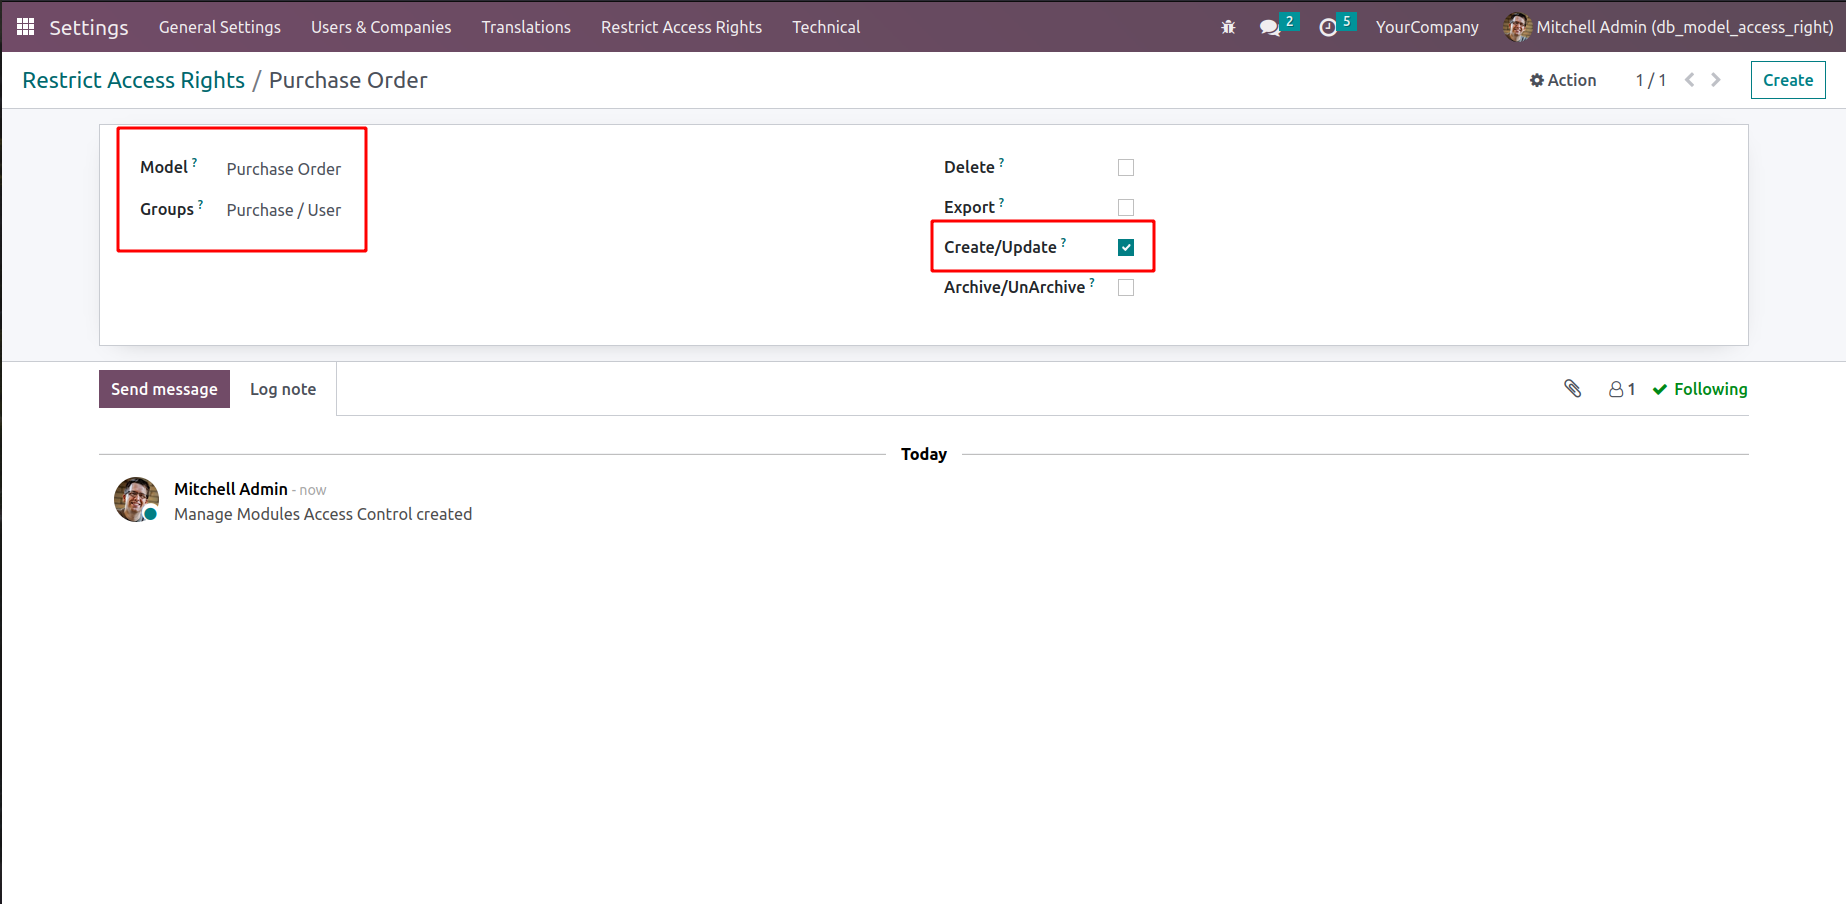
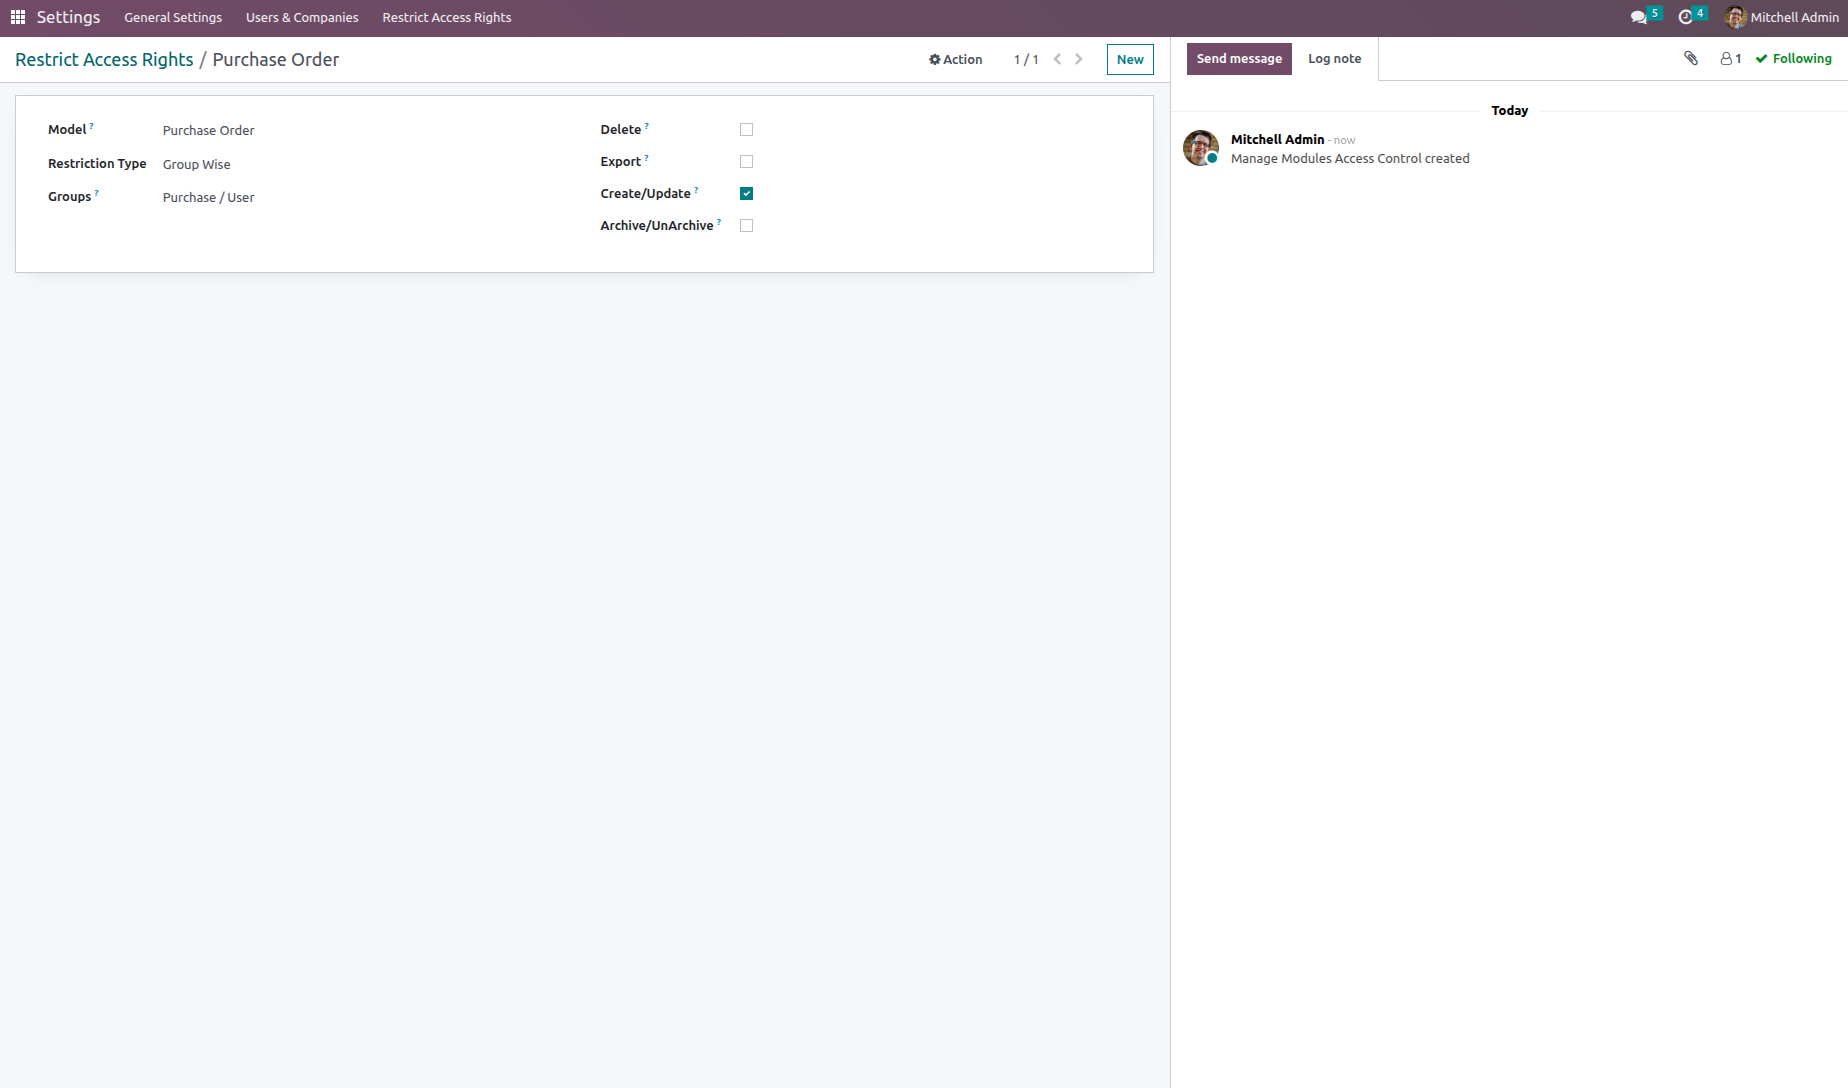
Aug 18: [FIX] Bug Fixed 'model_access_rights'

diff --git a/model_access_rights/static/src/js/list_controller.js b/model_access_rights/static/src/js/list_controller.js
@@ -4,6 +4,7 @@
  */
 import { ListController} from '@web/views/list/list_controller';
 import { patch} from "@web/core/utils/patch";
+import { useService } from "@web/core/utils/hooks";
 var rpc = require('web.rpc');
 const {onWillStart} = owl;
 patch(ListController.prototype, 'model_access_rights/static/src/js/list_controller.js.ListController', {
@@ -12,6 +13,7 @@ patch(ListController.prototype, 'model_access_rights/static/src/js/list_controll
  */
     setup() {
         this._super();
+        this.user = useService("user");
         onWillStart(async () => {
             var self = this
             var result;
@@ -24,22 +26,34 @@ patch(ListController.prototype, 'model_access_rights/static/src/js/list_controll
             for (var i = 0; i < result.length; i++) {
                 var group = result[i].module + "." + result[i].group_name
                 if (self.props.resModel == result[i].model) {
-                    if (await self.userService.hasGroup(group)) {
-                        if (!this.userService.isAdmin) {
-                            if (result[i].is_create_or_update) {
-                                self.activeActions.create = false;
+                    if (result[i].restriction_type == "group") {
+                        if (await self.user.hasGroup(group)) {
+                            if (!this.user.isAdmin) {
+                                if (result[i].is_create_or_update) {
+                                    self.activeActions.create = false;
+                                }
+                                if (result[i].is_export) {
+                                    self.isExportEnable = false
+                                    self.isExportEnable = false
+                                }
+                                if (result[i].is_delete) {
+                                    self.activeActions.delete = false;
+                                }
                             }
-                            if (result[i].is_export) {
-                                self.isExportEnable = false
-                                self.isExportEnable = false
-                            }
-                            if (result[i].is_delete) {
-                                self.activeActions.delete = false;
-                            }
-                            if (result[i].is_archive) {
-                                self.archiveEnabled = false;
-                            } else {
-                                self.archiveEnabled = true;
+                        }
+                    } else {
+                        if (await self.user.userId == result[i].user[0]) {
+                            if (!this.user.isAdmin) {
+                                if (result[i].is_create_or_update) {
+                                    self.activeActions.create = false;
+                                }
+                                if (result[i].is_export) {
+                                    self.isExportEnable = false
+                                    self.isExportEnable = false
+                                }
+                                if (result[i].is_delete) {
+                                    self.activeActions.delete = false;
+                                }
                             }
                         }
                     }

diff --git a/model_access_rights/static/src/js/kanban_controller.js b/model_access_rights/static/src/js/kanban_controller.js
@@ -4,6 +4,7 @@
  */
 import { KanbanController } from '@web/views/kanban/kanban_controller';
 import { patch} from "@web/core/utils/patch";
+import { useService } from "@web/core/utils/hooks";
 var rpc = require('web.rpc');
 const {onWillStart} = owl;
 patch(KanbanController.prototype, 'model_access_rights/static/src/js/list_controller.js.KanbanController', {
@@ -12,6 +13,7 @@ patch(KanbanController.prototype, 'model_access_rights/static/src/js/list_contro
  */
     setup() {
         this._super();
+        this.user = useService("user");
         onWillStart(async () => {
             var self = this
             var result;
@@ -24,14 +26,28 @@ patch(KanbanController.prototype, 'model_access_rights/static/src/js/list_contro
             for (var i = 0; i < result.length; i++) {
                 var group = result[i].module + "." + result[i].group_name
                 if (self.props.resModel == result[i].model) {
-                    if (await self.model.user.hasGroup(group)) {
-                        if (!self.model.user.isAdmin) {
-                            if (result[i].is_create_or_update) {
-                                self.props.archInfo.activeActions.create=false
-                                self.props.archInfo.activeActions.edit=false
+                    if (result[i].restriction_type == "group") {
+                        if (await self.user.hasGroup(group)) {
+                            if (!self.user.isAdmin) {
+                                if (result[i].is_create_or_update) {
+                                    self.props.archInfo.activeActions.create = false
+                                    self.props.archInfo.activeActions.edit = false
+                                }
+                                if (result[i].is_delete) {
+                                    self.props.archInfo.activeActions.delete = false
+                                }
                             }
-                            if (result[i].is_delete) {
-                            self.props.archInfo.activeActions.delete=false
+                        }
+                    } else {
+                        if (await self.user.userId == result[i].user[0]) {
+                            if (!self.user.isAdmin) {
+                                if (result[i].is_create_or_update) {
+                                    self.props.archInfo.activeActions.create = false
+                                    self.props.archInfo.activeActions.edit = false
+                                }
+                                if (result[i].is_delete) {
+                                    self.props.archInfo.activeActions.delete = false
+                                }
                             }
                         }
                     }

diff --git a/model_access_rights/static/src/js/form_controller.js b/model_access_rights/static/src/js/form_controller.js
@@ -4,6 +4,7 @@
  */
 import { FormController} from "@web/views/form/form_controller";
 import { patch} from "@web/core/utils/patch";
+import { useService } from "@web/core/utils/hooks";
 var rpc = require('web.rpc');
 const { onWillStart} = owl;
 patch(FormController.prototype, 'model_access_rights/static/src/js/form_controller.js.FormController', {
@@ -12,6 +13,7 @@ patch(FormController.prototype, 'model_access_rights/static/src/js/form_controll
  */
     setup() {
         this._super();
+        this.user = useService("user");
         onWillStart(async () => {
             var self = this
             var result;
@@ -24,18 +26,26 @@ patch(FormController.prototype, 'model_access_rights/static/src/js/form_controll
             for (var i = 0; i < result.length; i++) {
                 var group = result[i].module + "." + result[i].group_name
                 if (self.props.resModel == result[i].model) {
-                    if (await self.user.hasGroup(group)) {
-                        if (!this.user.isAdmin) {
-                            if (result[i].is_create_or_update) {
-                                self.canCreate = false
+                    if (result[i].restriction_type == "group") {
+                        if (await self.user.hasGroup(group)) {
+                            if (!this.user.isAdmin) {
+                                if (result[i].is_create_or_update) {
+                                    self.canCreate = false
+                                }
+                                if (result[i].is_delete) {
+                                    this.archInfo.activeActions.delete = false
+                                }
                             }
-                            if (result[i].is_delete) {
-                                this.archInfo.activeActions.delete = false
-                            }
-                            if (result[i].is_archive) {
-                                self.archiveEnabled = false
-                            } else {
-                                self.archiveEnabled = true;
+                        }
+                    } else {
+                        if (await self.user.userId == result[i].user[0]) {
+                            if (!this.user.isAdmin) {
+                                if (result[i].is_create_or_update) {
+                                    self.canCreate = false
+                                }
+                                if (result[i].is_delete) {
+                                    this.archInfo.activeActions.delete = false
+                                }
                             }
                         }
                     }

diff --git a/model_access_rights/static/description/index.html b/model_access_rights/static/description/index.html
@@ -109,7 +109,7 @@
 <div class="row" style="font-family: 'Montserrat', sans-serif; font-weight: 400; font-size: 14px; line-height: 200%;">
     <div class="col-sm-12 py-4">
         By using this module we can hide the options like create,delete,export,and archive/un archive in the model
-        which we want. Here we are also able to select the user groups except Administrator which we want to apply the
+        which we want. Here we are also able to select the user groups or user except Administrator which we want to apply the
         above hiding functionality    </div>
 </div>
 <!-- END OF OVERVIEW SECTION -->
@@ -136,6 +136,10 @@
         <div class="d-flex align-items-center" style="margin-top: 30px; margin-bottom: 30px">
             <img src="assets/misc/check-box.png" class="mr-2" />
             <span style="font-family: 'Montserrat', sans-serif; font-size: 18px; font-weight: bold;">Can hide the options for specific user group</span>
+        </div>
+        <div class="d-flex align-items-center" style="margin-top: 30px; margin-bottom: 30px">
+            <img src="assets/misc/check-box.png" class="mr-2" />
+            <span style="font-family: 'Montserrat', sans-serif; font-size: 18px; font-weight: bold;">Can hide the options for specific user</span>
         </div>
         <div class="d-flex align-items-center" style="margin-top: 30px; margin-bottom: 30px">
             <img src="assets/misc/check-box.png" class="mr-2" />
@@ -169,7 +173,7 @@
         </div>
 
         <div style="display: block; margin: 30px auto;">
-            <h3 style="font-family: 'Montserrat', sans-serif; font-size: 18px; font-weight: bold;">Select the Model, Groups and the options which we want to hide</h3>
+            <h3 style="font-family: 'Montserrat', sans-serif; font-size: 18px; font-weight: bold;">Select the Model, Restriction Type, Groups or user and the options which we want to hide</h3>
             <img src="assets/screenshots/model_access_right_03.png" class="img-thumbnail">
         </div>
         <div style="display: block; margin: 30px auto;">

diff --git a/model_access_rights/models/models.py b/model_access_rights/models/models.py
@@ -166,24 +166,33 @@ def _create(self, data_list):
         [('model', '=', self._name)]).id
     access_right_rec = self.env['access.right'].sudo().search_read(
         [('model_id', '=', current_model_id)],
-        ['model_id', 'is_create_or_update',
+        ['model_id', 'is_create_or_update','restriction_type','user_id',
          'groups_id'])
     if access_right_rec and not self.env.is_admin():
         for rec in access_right_rec:
-            group_name = self.env['ir.model.data'].sudo().search([
-                ('model', '=', 'res.groups'),
-                ('res_id', '=', rec['groups_id'][0])
-            ]).name
-            module_name = self.env['ir.model.data'].sudo().search([
-                ('model', '=', 'res.groups'),
-                ('res_id', '=', rec['groups_id'][0])
-            ]).module
-            group = module_name + "." + group_name
-            if self.env.user.has_group(group):
-                if rec['is_create_or_update']:
-                    raise UserError('You are restricted from performing this'
-                                      ' operation. Please contact the'
-                                      ' administrator.')
+            if rec['restriction_type']=='group':
+                group_name = self.env['ir.model.data'].sudo().search([
+                    ('model', '=', 'res.groups'),
+                    ('res_id', '=', rec['groups_id'][0])
+                ]).name
+                module_name = self.env['ir.model.data'].sudo().search([
+                    ('model', '=', 'res.groups'),
+                    ('res_id', '=', rec['groups_id'][0])
+                ]).module
+                group = module_name + "." + group_name
+                if self.env.user.has_group(group):
+                    if rec['is_create_or_update']:
+                        raise UserError(
+                            'You are restricted from performing this'
+                            ' operation. Please contact the'
+                            ' administrator.')
+            if rec['restriction_type']=='user':
+                if self.env.user.id == rec['user_id'][0]:
+                    if rec['is_create_or_update']:
+                        raise UserError(
+                            'You are restricted from performing this'
+                            ' operation. Please contact the'
+                            ' administrator.')
     return records
 
 
@@ -291,23 +300,33 @@ def unlink(self):
         [('model', '=', self._name)]).id
     access_right_rec = self.env['access.right'].sudo().search_read(
         [('model_id', '=', current_model_id)], ['model_id', 'is_delete',
+                                                'restriction_type','user_id',
                                                 'groups_id'])
     if access_right_rec and not self.env.is_admin():
         for rec in access_right_rec:
-            group_name = self.env['ir.model.data'].sudo().search([
-                ('model', '=', 'res.groups'),
-                ('res_id', '=', rec['groups_id'][0])
-            ]).name
-            module_name = self.env['ir.model.data'].sudo().search([
-                ('model', '=', 'res.groups'),
-                ('res_id', '=', rec['groups_id'][0])
-            ]).module
-            group = module_name + "." + group_name
-            if self.env.user.has_group(group):
-                if rec['is_delete']:
-                    raise UserError(_('You are restricted from performing this'
-                                      ' operation. Please contact the'
-                                      ' administrator.'))
+            if rec['restriction_type'] == 'group':
+                group_name = self.env['ir.model.data'].sudo().search([
+                    ('model', '=', 'res.groups'),
+                    ('res_id', '=', rec['groups_id'][0])
+                ]).name
+                module_name = self.env['ir.model.data'].sudo().search([
+                    ('model', '=', 'res.groups'),
+                    ('res_id', '=', rec['groups_id'][0])
+                ]).module
+                group = module_name + "." + group_name
+                if self.env.user.has_group(group):
+                    if rec['is_delete']:
+                        raise UserError(
+                            _('You are restricted from performing this'
+                              ' operation. Please contact the'
+                              ' administrator.'))
+            if rec['restriction_type']=='user':
+                if self.env.user.id == rec['user_id'][0]:
+                    if rec['is_delete']:
+                        raise UserError(
+                            'You are restricted from performing this'
+                            ' operation. Please contact the'
+                            ' administrator.')
     return True
 
 

diff --git a/model_access_rights/models/model_access_rights.py b/model_access_rights/models/model_access_rights.py
@@ -21,7 +21,7 @@
 #    If not, see <http://www.gnu.org/licenses/>.
 #
 #############################################################################
-from odoo import api, fields, models, _
+from odoo import api, fields, models
 
 
 class ModelAccessRights(models.Model):
@@ -34,7 +34,7 @@ class ModelAccessRights(models.Model):
 
     model_id = fields.Many2one('ir.model', ondelete='cascade', required=True,
                                help="select the model")
-    groups_id = fields.Many2one('res.groups', required=True,
+    groups_id = fields.Many2one('res.groups',
                                 help="select the group")
     is_delete = fields.Boolean(string="Delete", help="hide the delete option")
     is_export = fields.Boolean(string="Export",
@@ -45,6 +45,12 @@ class ModelAccessRights(models.Model):
                                               " as well as form view")
     is_archive = fields.Boolean(string="Archive/UnArchive",
                                 help="hide the archive option")
+    restriction_type = fields.Selection([
+        ('user', 'User Wise'),
+        ('group', 'Group Wise')
+    ], 'Restriction Type',required=True,default="group")
+    user_id = fields.Many2one('res.users',
+                                help="select the user")
 
     @api.model
     def hide_buttons(self):
@@ -54,21 +60,29 @@ class ModelAccessRights(models.Model):
                                                         'is_export',
                                                         'is_create_or_update',
                                                         'is_archive',
+                                                        'restriction_type',
+                                                        'user_id',
                                                         'groups_id'])
         for dic in access_right_rec:
             model = self.env['ir.model'].sudo().browse(dic['model_id'][0]).model
-            group_name = self.env['ir.model.data'].sudo().search([
-                ('model', '=', 'res.groups'),
-                ('res_id', '=', dic['groups_id'][0])
-            ]).name
+            if dic['restriction_type'] == "group":
+                group_name = self.env['ir.model.data'].sudo().search([
+                    ('model', '=', 'res.groups'),
+                    ('res_id', '=', dic['groups_id'][0])
+                ]).name
 
-            module_name = self.env['ir.model.data'].sudo().search([
-                ('model', '=', 'res.groups'),
-                ('res_id', '=', dic['groups_id'][0])
-            ]).module
+                module_name = self.env['ir.model.data'].sudo().search([
+                    ('model', '=', 'res.groups'),
+                    ('res_id', '=', dic['groups_id'][0])
+                ]).module
+            else:
+                group_name=False
+                module_name=False
             dic.update({
                 'model': model,
                 'group_name': group_name,
-                'module': module_name
+                'module': module_name,
+                'restriction_type': dic['restriction_type'],
+                'user':  dic['user_id']
             })
         return access_right_rec

diff --git a/model_access_rights/__manifest__.py b/model_access_rights/__manifest__.py
@@ -21,7 +21,7 @@
 #############################################################################
 {
     'name': 'Hide Create|Delete|Archive|Export Options - Model Wise',
-    'version': '16.0.1.0.0',
+    'version': '16.0.2.0.0',
     'category': 'Extra Tools, Productivity',
     'summary': """ Can hide options from user """,
     'description': """ By using this module we can hide the options like create,

diff --git a/model_access_rights/doc/RELEASE_NOTES.md b/model_access_rights/doc/RELEASE_NOTES.md
@@ -3,3 +3,10 @@
 #### Version 16.0.1.0.0
 ##### ADD
 - Initial Commit for Hide Create|Delete|Archive|Export Options - Model Wise
+
+
+#### 14.07.2025
+#### Version 16.0.2.0.0
+#### UPDT
+
+- Added a new option to restrict model access rights for certain user.
